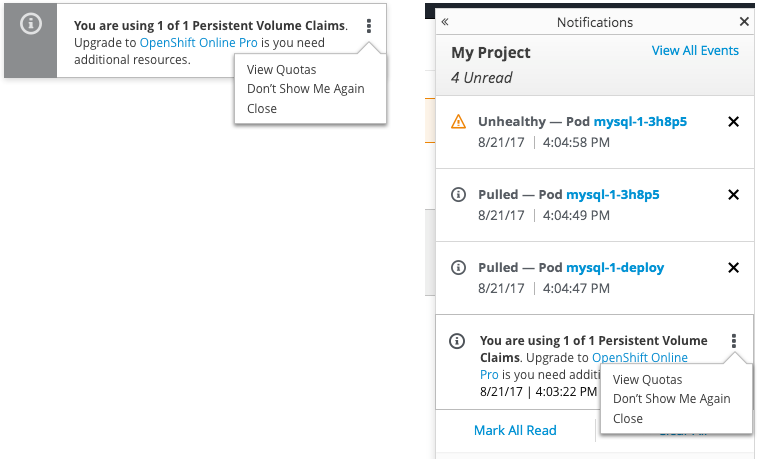
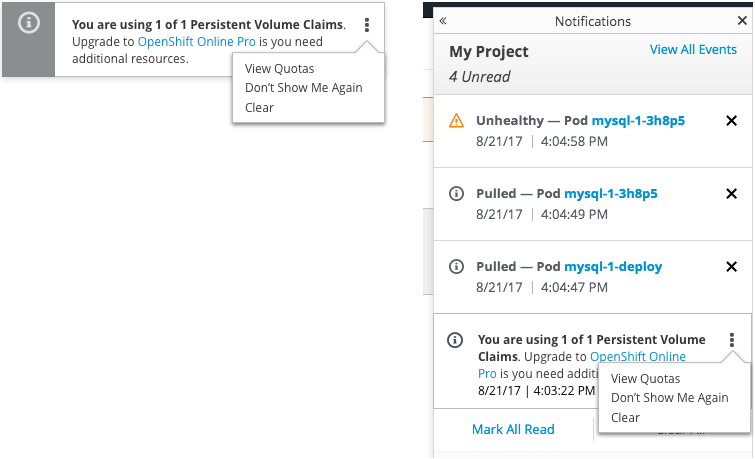
Updated kebab action from "close" to "clear."

diff --git a/web-console/5-components/quota-warnings.md b/web-console/5-components/quota-warnings.md
@@ -10,7 +10,7 @@
 - Toasts and notification drawer messages should include a kebab menu with options to:
   - View Quotas
   - Don't Show Me Again
-  - Close notification
+  - Clear notification
 
 ### Don't Show Me Again option
 - Option should be specific to each quota/limit.
